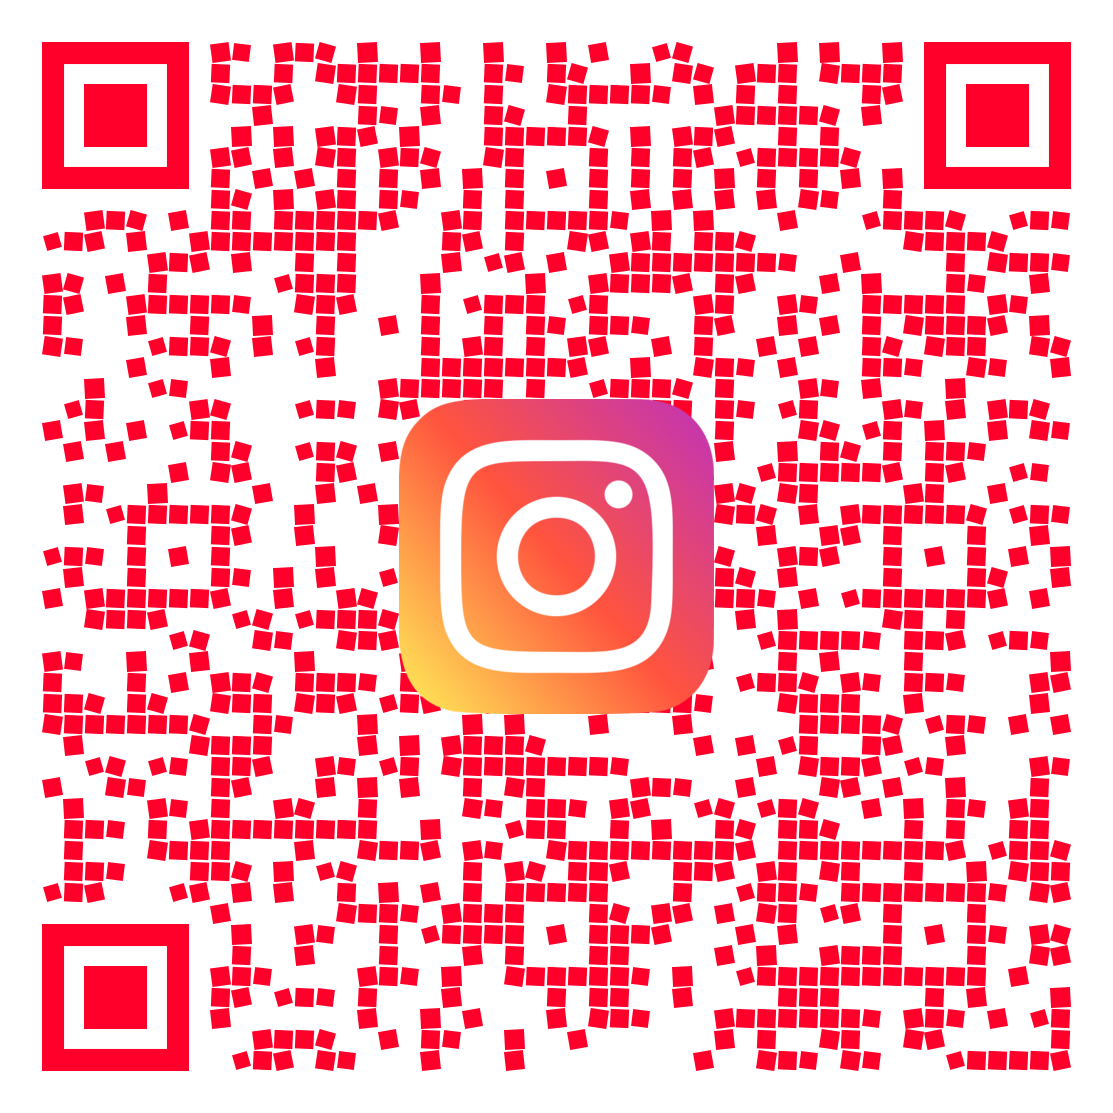
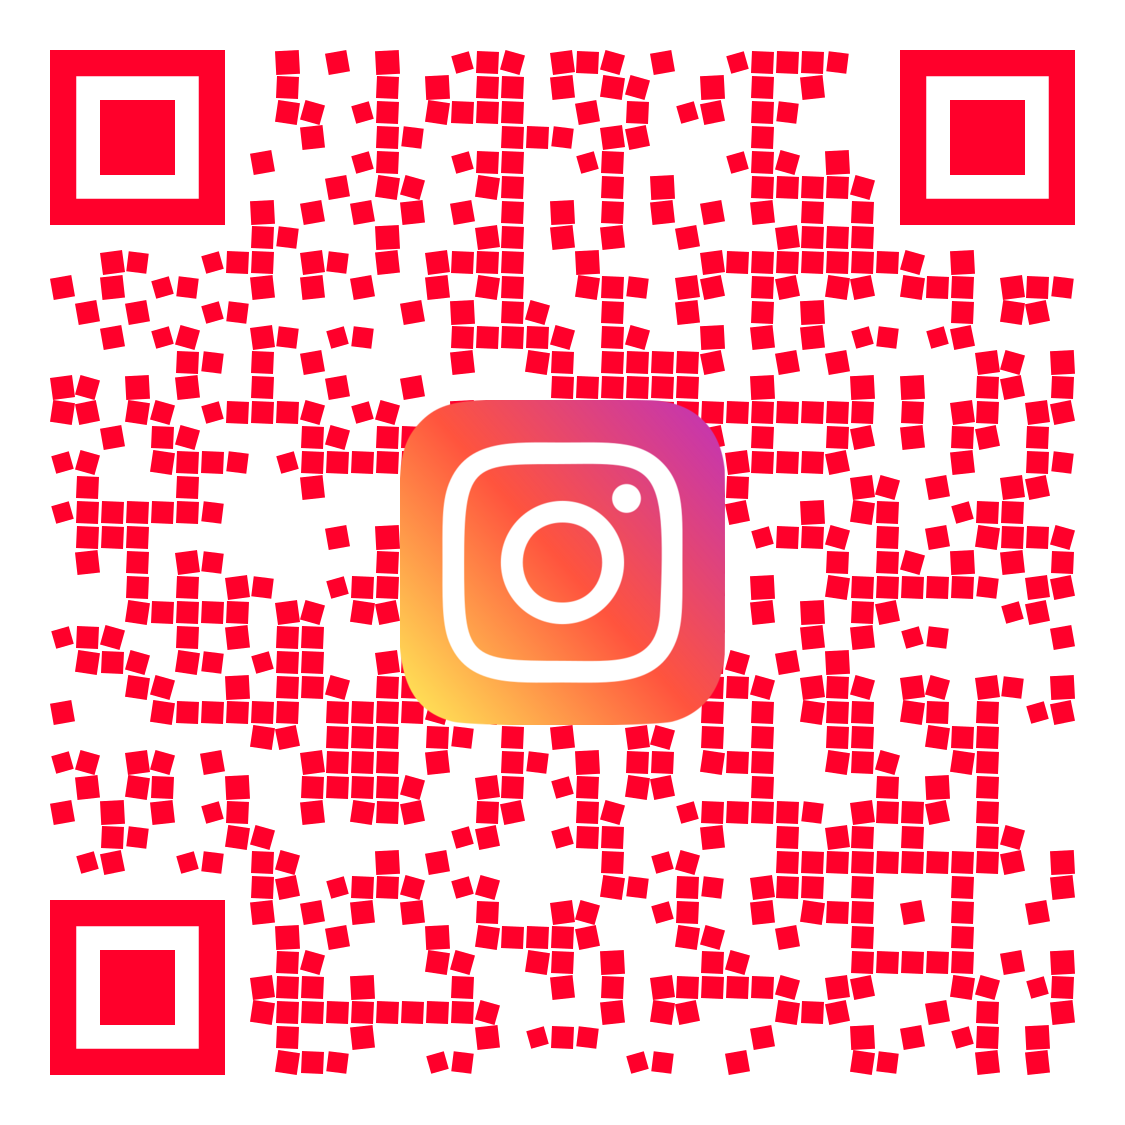
add rsvp page with RSVP assets

diff --git a/rsvp.html b/rsvp.html
@@ -1,0 +1,247 @@
+<!DOCTYPE html>
+<html>
+
+<head>
+    <link href="https://fonts.googleapis.com/css2?family=Great+Vibes&family=Playfair+Display:wght@500&display=swap"
+        rel="stylesheet">
+    <style>
+        :root {
+            --dark: #09240d;
+            --primary: #06402b;
+            --secondary: #085957;
+            --red: #471c1c;
+        }
+
+        .container {
+            position: relative;
+            width: 400px;
+            height: 280px;
+            margin: 200px auto;
+            cursor: pointer;
+        }
+
+        .envelope {
+            position: absolute;
+            width: 100%;
+            height: 100%;
+            background: linear-gradient(45deg, var(--dark), var(--secondary));
+            border-radius: 4px;
+            box-shadow: 0 10px 30px rgba(0, 0, 0, 0.2);
+            transition: transform 0.5s;
+        }
+
+
+        .flap {
+            position: absolute;
+            width: 100%;
+            height: 40%;
+            transform-origin: top center;
+            transform-style: preserve-3d;
+            transition: transform 0.6s cubic-bezier(0.4, 0, 0.2, 1);
+            border-radius: 4px 4px 0 0;
+            z-index: 2;
+        }
+
+        /* Front side of flap */
+        .flap-front {
+            position: absolute;
+            width: 100%;
+            height: 100%;
+            background: linear-gradient(160deg, var(--primary) 40%, var(--dark) 90%);
+            backface-visibility: hidden;
+            border-radius: 4px 4px 0 0;
+            box-shadow: 0 -2px 10px rgba(0, 0, 0, 0.1);
+            transform: rotateX(0deg);
+        }
+
+        /* Back side of flap (hidden design) */
+        .flap-back {
+            position: absolute;
+            width: 100%;
+            height: 100%;
+            display: flex;
+            justify-content: center;
+            align-items: center;
+            background:
+                radial-gradient(circle at center, transparent 60%, rgba(255, 255, 255, 0.3) 60.5%, transparent 61%) 50% 30% / 100% 100%,
+                linear-gradient(45deg, var(--primary), black);
+            backface-visibility: hidden;
+            border-radius: 4px 4px 0 0;
+            transform: rotateX(180deg);
+        }
+
+        .flap-glue-strip {
+            opacity: 0.4;
+            background-size: cover;
+            background-image: url('./assets/flowers/pink-flower-seamless-pattern.jpg');
+            width: calc(100% - 2rem);
+            height: calc(100% - 2rem);
+        }
+
+        .envelope:before {
+            content: '';
+            position: absolute;
+            bottom: -10px;
+            left: 5%;
+            width: 90%;
+            height: 20px;
+            background: rgba(0, 0, 0, 0.1);
+            border-radius: 50%;
+            filter: blur(4px);
+        }
+
+        .invitation {
+            position: absolute;
+            width: 90%;
+            /* height: 180px; */
+            height: fit-content;
+            background: linear-gradient(45deg, #415345, #edffee);
+            left: 5%;
+            top: -200px;
+            opacity: 0;
+            transition: all 0.8s 0.3s;
+            text-align: center;
+            text-decoration: none;
+            color: #5c2d1d;
+            border-radius: 8px;
+            box-shadow: 0 10px 30px rgba(0, 0, 0, 0.2);
+            font-family: 'Great Vibes', cursive;
+            z-index: 1;
+        }
+
+        .container:not(:hover) .invitation {
+            transition: all 0.5s;
+            /* speed up on close to zip in before the flap closes*/
+        }
+
+        .container:hover .flap {
+            transform: perspective(800px) rotateX(180deg);
+            box-shadow: 0 -10px 20px rgba(0, 0, 0, 0.2);
+            background-image: linear-gradient(160deg, var(--primary) 40%, var(--secondary) 90%);
+        }
+
+        .container:hover .flap::after {
+            /* display: block; */
+            opacity: 1;
+        }
+
+        .container:hover .invitation {
+            top: 50px;
+            opacity: 1;
+        }
+
+        .invitation-text {
+            text-align: center;
+            padding: 25px;
+            position: relative;
+        }
+
+        .invitation-text::before {
+            display: none;
+        }
+
+        .invitation img {
+            max-width: calc(100% - 2rem);
+            border-bottom-left-radius: inherit;
+            border-bottom-right-radius: 8px;
+        }
+
+        h2 {
+            font-size: 2.5em;
+            margin: 0;
+            color: #5c2d1d;
+            text-shadow: 1px 1px 2px rgba(0, 0, 0, 0.1);
+        }
+
+        p {
+            font-size: 1.2em;
+            margin: 10px 0;
+        }
+
+        /* Wax Seal Styles */
+        .external-seal {
+            position: absolute;
+            /* bottom: 20px; */
+            top: 30%;
+            left: 50%;
+            transform: translateX(-50%);
+            width: 60px;
+            height: 60px;
+            z-index: 3;
+            /* transition: 0.8s; */
+            filter: drop-shadow(0 2px 4px rgba(0, 0, 0, 0.3));
+            transition: opacity 0.4s cubic-bezier(0.4, 0, 0.2, 1), transform 3s;
+            opacity: 1;
+
+        }
+
+        .wax-seal {
+            cursor: pointer;
+            /* transition: transform 0.8s; */
+        }
+
+        .wax-seal:hover {
+            transform: scale(1.05);
+        }
+
+        .seal-text {
+            font-family: 'Playfair Display', serif;
+            font-weight: 500;
+            fill: #ffffff;
+            text-shadow: 0 1px 2px rgba(0, 0, 0, 0.3);
+        }
+
+        .glitter {
+            position: absolute;
+            width: 100%;
+            height: 100%;
+            background: radial-gradient(circle at 50% 50%,
+                    rgba(255, 255, 255, 0.8) 0%,
+                    rgba(255, 255, 255, 0) 70%);
+            opacity: 0;
+            transition: opacity 0.3s;
+        }
+
+        .container:hover .glitter {
+            opacity: 0.3;
+        }
+
+        .container:hover .external-seal {
+            opacity: 0;
+            transition: opacity 0.3s cubic-bezier(0.4, 0, 0.2, 1);
+            /* Faster fade-out */
+        }
+
+        .container:not(:hover) .external-seal {
+            transition:
+                opacity 0.4s cubic-bezier(0.4, 0, 0.2, 1) 0.6s,
+                /* 0.6s delay matches flap duration */
+                transform 0.3s;
+        }
+    </style>
+</head>
+
+<body>
+    <div class="container">
+        <div class="envelope">
+            <div class="flap">
+                <div class="flap-front"></div>
+                <div class="flap-back">
+                    <div class="flap-glue-strip"></div>
+                </div>
+            </div>
+            <div class=" external-seal">
+                <object type="image/svg+xml" data="./wax-seal.svg" class="wax-seal"></object>
+            </div>
+            <div class="glitter"></div>
+        </div>
+        <a href="https://bety.lucasdurand.xyz" class="invitation" target="_blank">
+            <div class="invitation-text">
+                Invitación Virtual Para La Boda de <br /> Beatriz A. Fernández Campos y Lucas M. Durand
+            </div>
+            <img src="assets/digital-rsvp.png" />
+        </a>
+    </div>
+</body>
+
+</html>

diff --git a/index.html b/index.html
@@ -717,6 +717,10 @@
             </div>
             <div class="timeline-day">Saturday</div>
             <div class="timeline-item">
+                <div class="timeline-time">5:00 PM</div>
+                <div class="timeline-info">Shuttles leave from Emporio</div>
+            </div>
+            <div class="timeline-item">
                 <div class="timeline-time">6:00 PM</div>
                 <div class="timeline-info">Wedding ceremony begins</div>
             </div>
@@ -733,8 +737,16 @@
                 <div class="timeline-info">Dancing with DJ</div>
             </div>
             <div class="timeline-item">
-                <div class="timeline-time">2:00 AM</div>
+                <div class="timeline-time">11:30 PM</div>
+                <div class="timeline-info">First shuttle returns to the hotel</div>
+            </div>
+            <div class="timeline-item">
+                <div class="timeline-time">1:00 AM</div>
                 <div class="timeline-info">Mariachis and tacos to close the night!</div>
+            </div>
+            <div class="timeline-item">
+                <div class="timeline-time">2:00 AM</div>
+                <div class="timeline-info">Last shuttle to the hotel -- it's a long walk!</div>
             </div>
         </div>
         <!-- Spanish Timeline -->
@@ -757,6 +769,10 @@
             </div>
             <div class="timeline-day">Sábado</div>
             <div class="timeline-item">
+                <div class="timeline-time">5:00 PM</div>
+                <div class="timeline-info">El transporte saldrá de Emporio</div>
+            </div>
+            <div class="timeline-item">
                 <div class="timeline-time">6:00 PM</div>
                 <div class="timeline-info">Comienza la ceremonia</div>
             </div>
@@ -773,8 +789,16 @@
                 <div class="timeline-info">Baile con DJ</div>
             </div>
             <div class="timeline-item">
-                <div class="timeline-time">2:00 AM</div>
+                <div class="timeline-time">11:30 PM</div>
+                <div class="timeline-info">El primer transporte saldrá de regreso al hotel</div>
+            </div>
+            <div class="timeline-item">
+                <div class="timeline-time">1:00 AM</div>
                 <div class="timeline-info">¡Mariachis y tacos para cerrar la noche!</div>
+            </div>
+            <div class="timeline-item">
+                <div class="timeline-time">2:00 AM</div>
+                <div class="timeline-info">El transporte saldrá de regreso al hotel</div>
             </div>
         </div>
     </section>
@@ -930,10 +954,11 @@
                     </a>
                 </div>
                 <div class="activity-card" style="margin:0.5rem; display:block; overflow-wrap:anywhere;">
-                    <a href="https://www.instagram.com/explore/search/keyword/?q=%23BetyAndLucas">
+                    <a href="https://www.instagram.com/explore/tags/BetyAndLucas/" target="_blank"
+                        rel="noopener noreferrer">
                         <img src="./assets/qr/instagram-qr-code.png" style="width:100%;">
+                        #BetyAndLucas
                     </a>
-                    #BetyAndLucas
                     #BeachPleaseItsWeddingWeek
                 </div>
 

diff --git a/README.md b/README.md
@@ -5,3 +5,13 @@ This is the wedding site 💍 for 🇲🇽 Bety + Lucas 🇨🇦
 ## Deployment
 
 We are set up for continuous deployment with netlify: https://app.netlify.com/sites/betyandlucas/overview. Merge to the `main` branch and it will kick off a "build" and serve the site. Currently we're configured just to serve the static html. **Don't get carried away and think we need more than that!** 
+
+## Development
+
+* It's all an HTML file!
+* Actually now it's **2** html files and an `.svg`
+* One day maybe a `.css`???
+
+### QR Codes
+
+Currently using https://www.qrcode-monkey.com/ to manually generate
